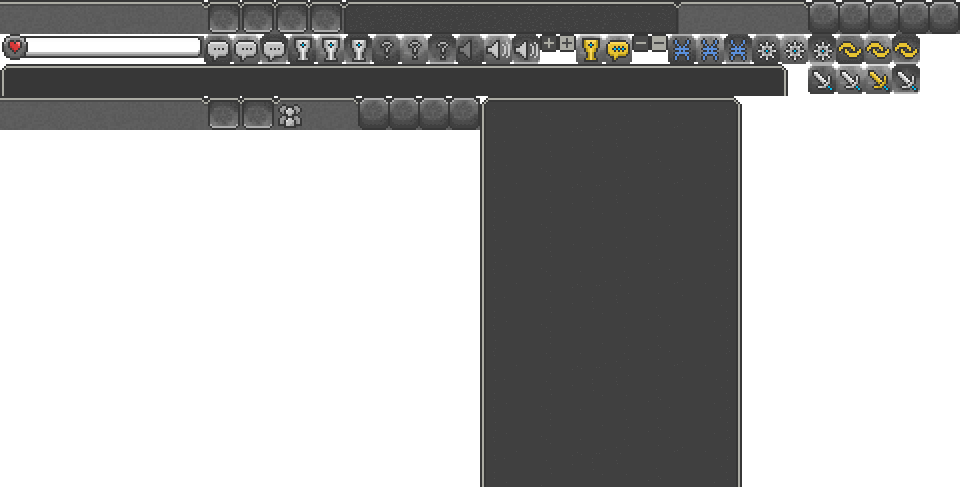
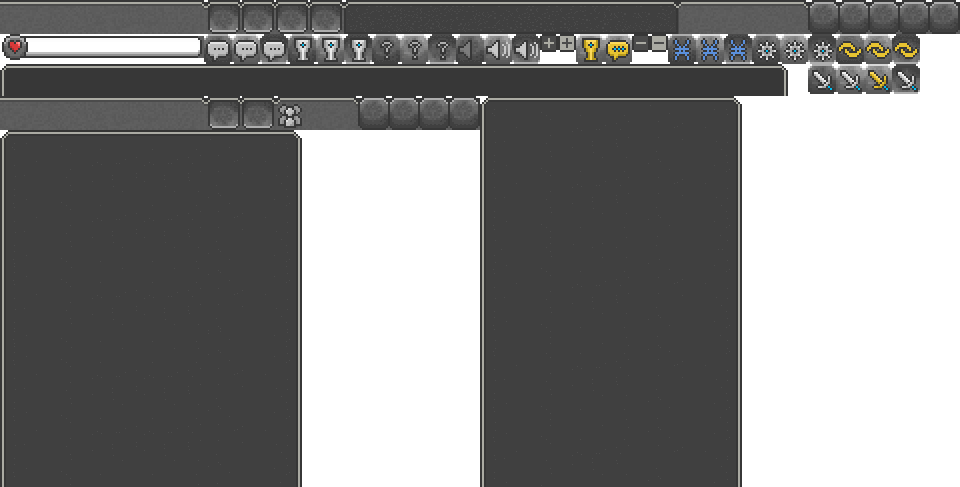
Start building the trade panel

Changed region(s): [[0.0, 0.2464, 0.3125, 1.0]]

diff --git a/client/css/main.css b/client/css/main.css
@@ -777,9 +777,10 @@ footer, header, hgroup, menu, nav, section {
     }
 
     #waypoint {top: 10%}
+    #trade { bottom: auto;}
     #upgrade { bottom: auto;}
     #inventory { bottom: auto;}
-    #inventory.upgrade .panel-spaced-row { display: none;}
+    #inventory.upgrade .panel-spaced-row, #inventory.trade .panel-spaced-row { display: none;}
     #item-inventory, #item-stash { position: relative; display: flex; flex-wrap: wrap; justify-content: center;}
 
     .ui-droppable-hover { border-color: yellow !important;}
@@ -815,7 +816,8 @@ footer, header, hgroup, menu, nav, section {
         line-height: 1;
         font-size: 0.9em;
     }
-    #upgrade-scroll {display: flex;flex-wrap: wrap;}
+    #upgrade-scroll, #player1-trade-item, #player2-trade-item {display: flex;flex-wrap: wrap;}
+    #trade-info,
     #upgrade-info {
         color: #ababa4;
         font-size: 0.75em;
@@ -965,7 +967,7 @@ footer, header, hgroup, menu, nav, section {
         #chatinput { padding: 6px 12px; }
         #completed.boss-check .link { font-size: 34px; }
         .createaccount-instructions { font-size: 25px; }
-        #upgrade-scroll { width: 168px; }
+        #upgrade-scroll, #player1-trade-item, #player2-trade-item { width: 168px; }
         .panel-spaced-row { padding: 0 12px}
         .item-equip-weapon::before {background-image: url('../img/3/inventory-placeholder.png');}
         .item-equip-armor::before {background-image: url('../img/3/inventory-placeholder.png');background-position-x: -45px;}
@@ -1114,7 +1116,10 @@ footer, header, hgroup, menu, nav, section {
 
         .panel > div {background-size:1440px;background-position:-720px -156px;}
         .panel-header {background-size:1440px; background-position:-720px -144px !important;padding-top: 12px;}
+        .panel.panel-large > div {background-position:0 -207px;}
+        .panel-large .panel-header {background-position:0 -195px !important;}
 
+        #trade { width:416px; right: 56px; }
         .barbutton {background-size:1440px;height:45px;width:42px;}
         #chatbutton {background-position:-306px -51px;top:3px;left:1215px;}
         #chatbutton:hover, #chatbutton.blink:hover {background-position:-348px -51px;}
@@ -1195,7 +1200,7 @@ footer, header, hgroup, menu, nav, section {
 	@media screen and (max-width: 1500px), screen and (max-height: 870px) {
         .home-logo {margin-left:-200px;margin-top:-20px;transform:scale(0.7);}
         .createaccount-instructions { font-size: 17px; }
-        #upgrade-scroll { width: 120px; }
+        #upgrade-scroll, #player1-trade-item, #player2-trade-item { width: 120px; }
         .item-equip-weapon::before {background-image: url('../img/2/inventory-placeholder.png');}
         .item-equip-armor::before {background-image: url('../img/2/inventory-placeholder.png');background-position-x: -29px;}
         .item-equip-ring::before {background-image: url('../img/2/inventory-placeholder.png');background-position-x: -61px;}
@@ -1262,15 +1267,15 @@ footer, header, hgroup, menu, nav, section {
         .button.delete:active {background-position:0 -1452px;}
         .validation-error {font-size:16px;}
         
-		#container {width:980px;margin:0 auto;position:absolute;top:50%;margin-top:-252px;left:50%;margin-left:-490px;}
+        #container {width:980px;margin:0 auto;position:absolute;top:50%;margin-top:-252px;left:50%;margin-left:-490px;}
 
-    #canvasborder {padding:10px;background:url('../img/2/border.png') no-repeat;}
-    #expbar{right:10px}
-		#canvas {width:100%;height:448px;}
-		#fade {width:960px;height:448px;top:10px;left:10px;}
+        #canvasborder {padding:10px;background:url('../img/2/border.png') no-repeat;}
+        #expbar{right:10px}
+        #canvas {width:100%;height:448px;}
+        #fade {width:960px;height:448px;top:10px;left:10px;}
 
-		#instructions, #store, #settings, #party, #completed, #failed {height:386px;width:834px;background-position:0 -1136px;margin-left:-416px;margin-top:-210px;color:#373737;}
-		#instructions h1, #store h1, #settings h1, #party h1, #completed h1, #failed h1 {font-size:30px;text-align:center;margin:40px 0 30px;}
+        #instructions, #store, #settings, #party, #completed, #failed {height:386px;width:834px;background-position:0 -1136px;margin-left:-416px;margin-top:-210px;color:#373737;}
+        #instructions h1, #store h1, #settings h1, #party h1, #completed h1, #failed h1 {font-size:30px;text-align:center;margin:40px 0 30px;}
         #party h1 { margin-bottom: 10px; margin-top: 20px; }
         #party .party-panel { height: 300px; }
         #completed h1 { margin-bottom: 0}
@@ -1339,6 +1344,7 @@ footer, header, hgroup, menu, nav, section {
 
         #player-count {font-size:16px;left:680px;top:10px;width:125px;text-align:center;}
         .panel {bottom:44px;width:262px;font-size:14px;line-height:20px;}
+        .panel.panel-large { width: 302px; }
         .panel-container {right: calc(5% + 262px);}
         #population {right:70px;}
         #player {left: 20px;}
@@ -1346,7 +1352,10 @@ footer, header, hgroup, menu, nav, section {
 
         .panel > div {background-size:960px;background-position:-480px -104px;}
         .panel-header {background-position:-480px -96px !important;padding-top: 8px;}
+        .panel.panel-large > div {background-position:0 -138px;}
+        .panel-large .panel-header {background-position:0 -130px !important;}
 
+        #trade { right: 40px;}
         .barbutton {background-size:960px;height:30px;width:28px;}
         #chatbutton {background-position:-204px -34px;top:2px;left:810px;}
         #chatbutton:hover, #chatbutton.blink:hover {background-position:-232px -34px;}
@@ -1435,7 +1444,7 @@ footer, header, hgroup, menu, nav, section {
         #text-window { width: 60%; }
         .world { font-size: 12px;}
         .createaccount-instructions { font-size: 8px; }
-        #upgrade-scroll { width: 120px; }
+        #upgrade-scroll, #player1-trade-item, #player2-trade-item { width: 120px; }
         #player-list {max-height: 266px;}
         #stash {top:45px;}
 
@@ -1562,6 +1571,7 @@ footer, header, hgroup, menu, nav, section {
         #completedbutton.ban.active {background-position:-892px -34px;}
 
         .panel {bottom:22px;width:262px;font-size:14px;line-height:20px;}
+        .panel.panel-large {width:302px;}
         .panel-container {right: calc(5% + 262px);}
         #population {right:70px;}
         #player {left:20px;}
@@ -1569,6 +1579,8 @@ footer, header, hgroup, menu, nav, section {
 
         .panel > div {background-size:960px;background-position:-480px -104px;}
         .panel-header {background-position:-480px -96px !important;padding-top: 8px;}
+        .panel.panel-large > div {background-position:0 -138px;}
+        .panel-large .panel-header {background-position:0 -130px !important;}
 
         .barbutton {background-size:480px;height:15px;width:14px;}
         #chatbutton {background-position:-102px -17px;top:1px;left:405px;}
@@ -1642,7 +1654,7 @@ footer, header, hgroup, menu, nav, section {
 	@media screen and (max-width: 800px) {
         #text-window { width: calc(100% - 30px); height: 50vh; }
         .createaccount-instructions { font-size: 8px; }
-        #upgrade-scroll { width: 120px; }
+        #upgrade-scroll, #player1-trade-item, #player2-trade-item { width: 120px; }
         .panel-container {
             flex-direction: row;
             width: auto !important;
@@ -1654,9 +1666,10 @@ footer, header, hgroup, menu, nav, section {
         .panel#population { bottom: 16px; }
         .panel#player {left: -20px; bottom: 18px;}
         .panel#waypoint {left: -20px;}
+        .panel#trade {position: relative;left: 42px;}
         .panel#upgrade {position: relative;left: 42px;}
         .panel#inventory {bottom:22px;}
-        .panel#inventory.upgrade {bottom:auto}
+        .panel#inventory.trade, .panel#inventory.upgrade {bottom:auto}
         #player-list {max-height: 166px;}
         #stash {top: 0;right: 230px;}
 
@@ -1763,6 +1776,7 @@ footer, header, hgroup, menu, nav, section {
         #player-count span {display:none;}
         #player-count span.count {display:inline;}
         .panel {bottom:34px;width:262px;font-size:14px;line-height:20px;}
+        .panel.panel-large {width:302px;}
         .panel-container {right: 0;}
         #population {right:0px;}
         #player {left:20px;}
@@ -1770,6 +1784,8 @@ footer, header, hgroup, menu, nav, section {
 
         .panel > div {background-size:960px;background-position:-480px -104px;}
         .panel-header {background-position:-480px -96px !important;padding-top: 6px;}
+        .panel.panel-large > div {background-position:0 -138px;}
+        .panel-large .panel-header {background-position:0 -130px !important;}
 
         .barbutton {background-size:960px;height:30px;width:28px;}
         #chatbutton {background-position:-204px -34px;top:2px;left:360px;}

diff --git a/client/js/game.ts b/client/js/game.ts
@@ -1267,6 +1267,26 @@ class Game {
     $("#upgrade-result").empty().append('<div class="item-slot item-upgraded" data-slot="210"></div>');
   }
 
+  initTrade() {
+    $("#player1-trade-item").empty();
+    $("#player2-trade-item").empty();
+
+    for (var i = 0; i < 9; i++) {
+      $("#player1-trade-item").append(`<div class="item-slot" data-slot="${400 + i}"></div>`);
+    }
+
+    for (var i = 0; i < 9; i++) {
+      $("#player2-trade-item").append(`<div class="item-slot"></div>`);
+    }
+
+    // $("#upgrade-item")
+    //   .empty()
+    //   .append(
+    //     '<div class="item-slot item-upgrade item-upgrade-weapon item-upgrade-armor item-weapon item-armor item-ring item-amulet item-belt item-cape item-shield item-chest" data-slot="200"></div>',
+    //   );
+    // $("#upgrade-result").empty().append('<div class="item-slot item-upgraded" data-slot="210"></div>');
+  }
+
   updateUpgrade({ luckySlot, isSuccess }) {
     if ($("#inventory").hasClass("visible")) {
       $("#upgrade .item-draggable.ui-draggable").draggable("destroy");
@@ -2381,6 +2401,7 @@ class Game {
       self.initAchievements();
       self.initInventory();
       self.initUpgrade();
+      self.initTrade();
       self.initStash();
       self.initTooltips();
       self.initSendUpgradeItem();
@@ -4864,6 +4885,8 @@ class Game {
         return;
       }
     } else if (message.startsWith("/trade")) {
+      this.app.openTrade();
+      return;
       const args = message.match(tradeRegexp);
       const playerName = (args?.[1] || "").trim();
       let isPlayerFound = false;
@@ -4900,8 +4923,6 @@ class Game {
               type: "error",
             });
           } else {
-            console.log("~~~GOOD! start trade!");
-
             this.client.sendTradeRequest(playerName);
           }
 

diff --git a/client/js/app.ts b/client/js/app.ts
@@ -932,6 +932,9 @@ class App {
     if ($("#upgrade").hasClass("visible")) {
       this.toggleUpgrade();
     }
+    if ($("#trade").hasClass("visible")) {
+      this.toggleTrade();
+    }
     if ($("#inventory").hasClass("visible")) {
       this.closeInventory();
     }
@@ -1243,6 +1246,39 @@ class App {
   closeStash() {
     $("#stash").removeClass("visible");
     this.closeInventory();
+  }
+
+  openTrade() {
+    if ($("#trade").hasClass("visible")) return;
+    $("#population").removeClass("visible");
+    this.closeStash();
+    this.toggleTrade();
+  }
+
+  closeTrade() {
+    if (!$("#trade").hasClass("visible")) return;
+
+    this.toggleTrade();
+  }
+
+  toggleTrade() {
+    $("#trade").toggleClass("visible");
+
+    if ($("#trade").hasClass("visible")) {
+      if (!$("#inventory").hasClass("visible")) {
+        this.game.initDraggable();
+      }
+      $("#inventory").addClass("visible trade");
+      $("#player").removeClass("visible");
+    } else {
+      this.game.destroyDraggable();
+      if (this.game.player.upgrade.length) {
+        this.game.client.sendMoveUpgradeItemsToInventory();
+      }
+      $("#inventory").removeClass("visible trade");
+      $("#player1-trade-item .item-slot").empty();
+      $("#player2-trade-item .item-slot").empty();
+    }
   }
 
   openUpgrade() {

diff --git a/client/index.html b/client/index.html
@@ -669,6 +669,19 @@
             <div id="party-player-list"></div>
 
             <div class="panel-container">
+                <div id="trade" class="panel panel-large">
+                    <span class="close"></span>
+                    <div class="panel-header"></div>
+                    <div class="panel-spaced-row">
+                        <div id="player1-trade-item"></div>
+                        <div id="player2-trade-item"></div>
+                    </div>
+                    <div id="trade-info">&nbsp;</div>
+                    <div class="panel-spaced-row">
+                        <button class="btn" id="trade-btn">Accept</button>
+                    </div>
+                    <div class="panel-header reverse"></div>
+                </div>
                 <div id="upgrade" class="panel">
                     <span class="close"></span>
                     <div class="panel-header"></div>

diff --git a/server/js/format.ts b/server/js/format.ts
@@ -30,6 +30,7 @@ class FormatChecker {
       (this.formats[Types.Messages.MOVE_ITEM] = ["n", "n"]),
       (this.formats[Types.Messages.MOVE_UPGRADE_ITEMS_TO_INVENTORY] = []),
       (this.formats[Types.Messages.UPGRADE_ITEM] = []),
+      (this.formats[Types.Messages.TRADE_ACTIONS.MOVE_ITEM] = []),
       (this.formats[Types.Messages.PURCHASE_CREATE] = ["n", "s"]),
       (this.formats[Types.Messages.PURCHASE_CANCEL] = ["s"]),
       (this.formats[Types.Messages.STORE_ITEMS] = []);

diff --git a/client/js/player.ts b/client/js/player.ts
@@ -36,6 +36,8 @@ class Player extends Character {
   inventory: any[];
   stash: any[];
   upgrade: any[];
+  tradePlayer1: any[];
+  tradePlayer2: any[];
   gems: any;
   artifact: any;
   expansion1: boolean;
@@ -120,6 +122,8 @@ class Player extends Character {
     this.inventory = [];
     this.stash = [];
     this.upgrade = [];
+    this.tradePlayer1 = [];
+    this.tradePlayer2 = [];
     this.gems = [];
     this.artifact = [];
     this.expansion1 = false;

diff --git a/shared/js/gametypes.ts b/shared/js/gametypes.ts
@@ -86,6 +86,7 @@ export const Types: any = {
       REQUEST_RECEIVE: 78,
       REQUEST_ACCEPT: 79,
       REQUEST_REFUSE: 80,
+      MOVE_ITEM: 85,
       INFO: 81,
       ERROR: 82,
       START: 83,
